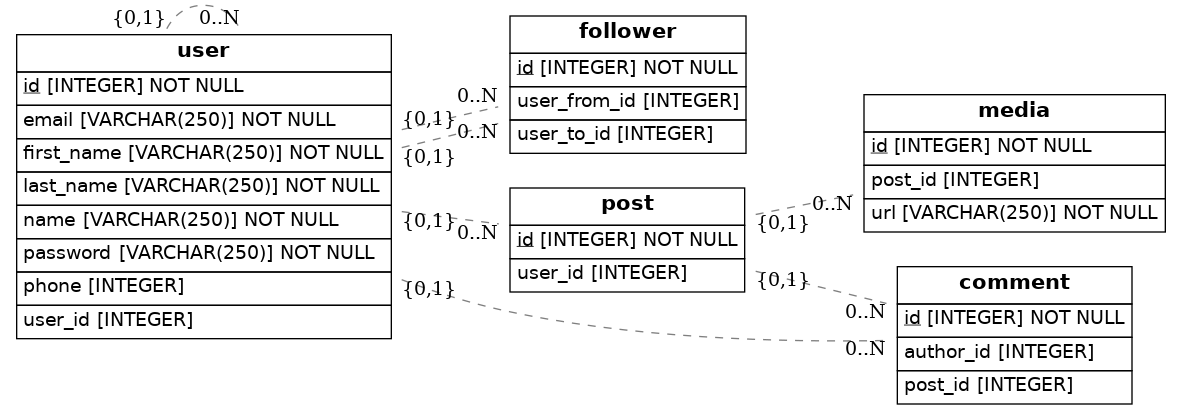
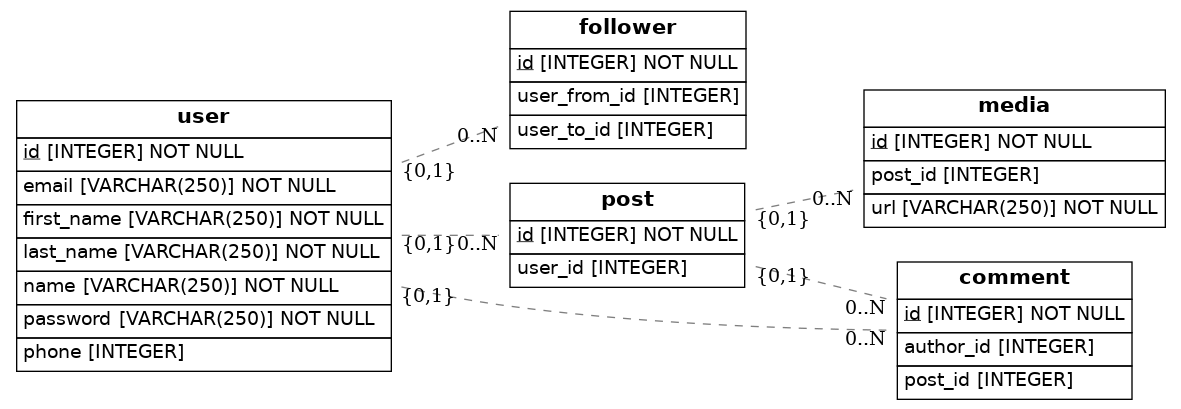
users

diff --git a/src/models.py b/src/models.py
@@ -18,7 +18,7 @@ class User(Base):
     last_name = Column(String(250), nullable = False)
     email = Column(String(250), nullable = False)
     phone = Column(Integer)
-    user_id = Column(Integer, ForeignKey('user.id'))
+   
 
 class Follower(Base):
     __tablename__ = 'follower'
@@ -26,7 +26,7 @@ class Follower(Base):
     # Notice that each column is also a normal Python instance attribute.
     id = Column(Integer, primary_key=True)
     user_from_id = Column(Integer, ForeignKey('user.id'))
-    user_to_id = Column(Integer, nullable=False)
+    user_to_id = Column(Integer, ForeignKey('userto.id') )
 
 class Post(Base):
     __tablename__ = 'post'
